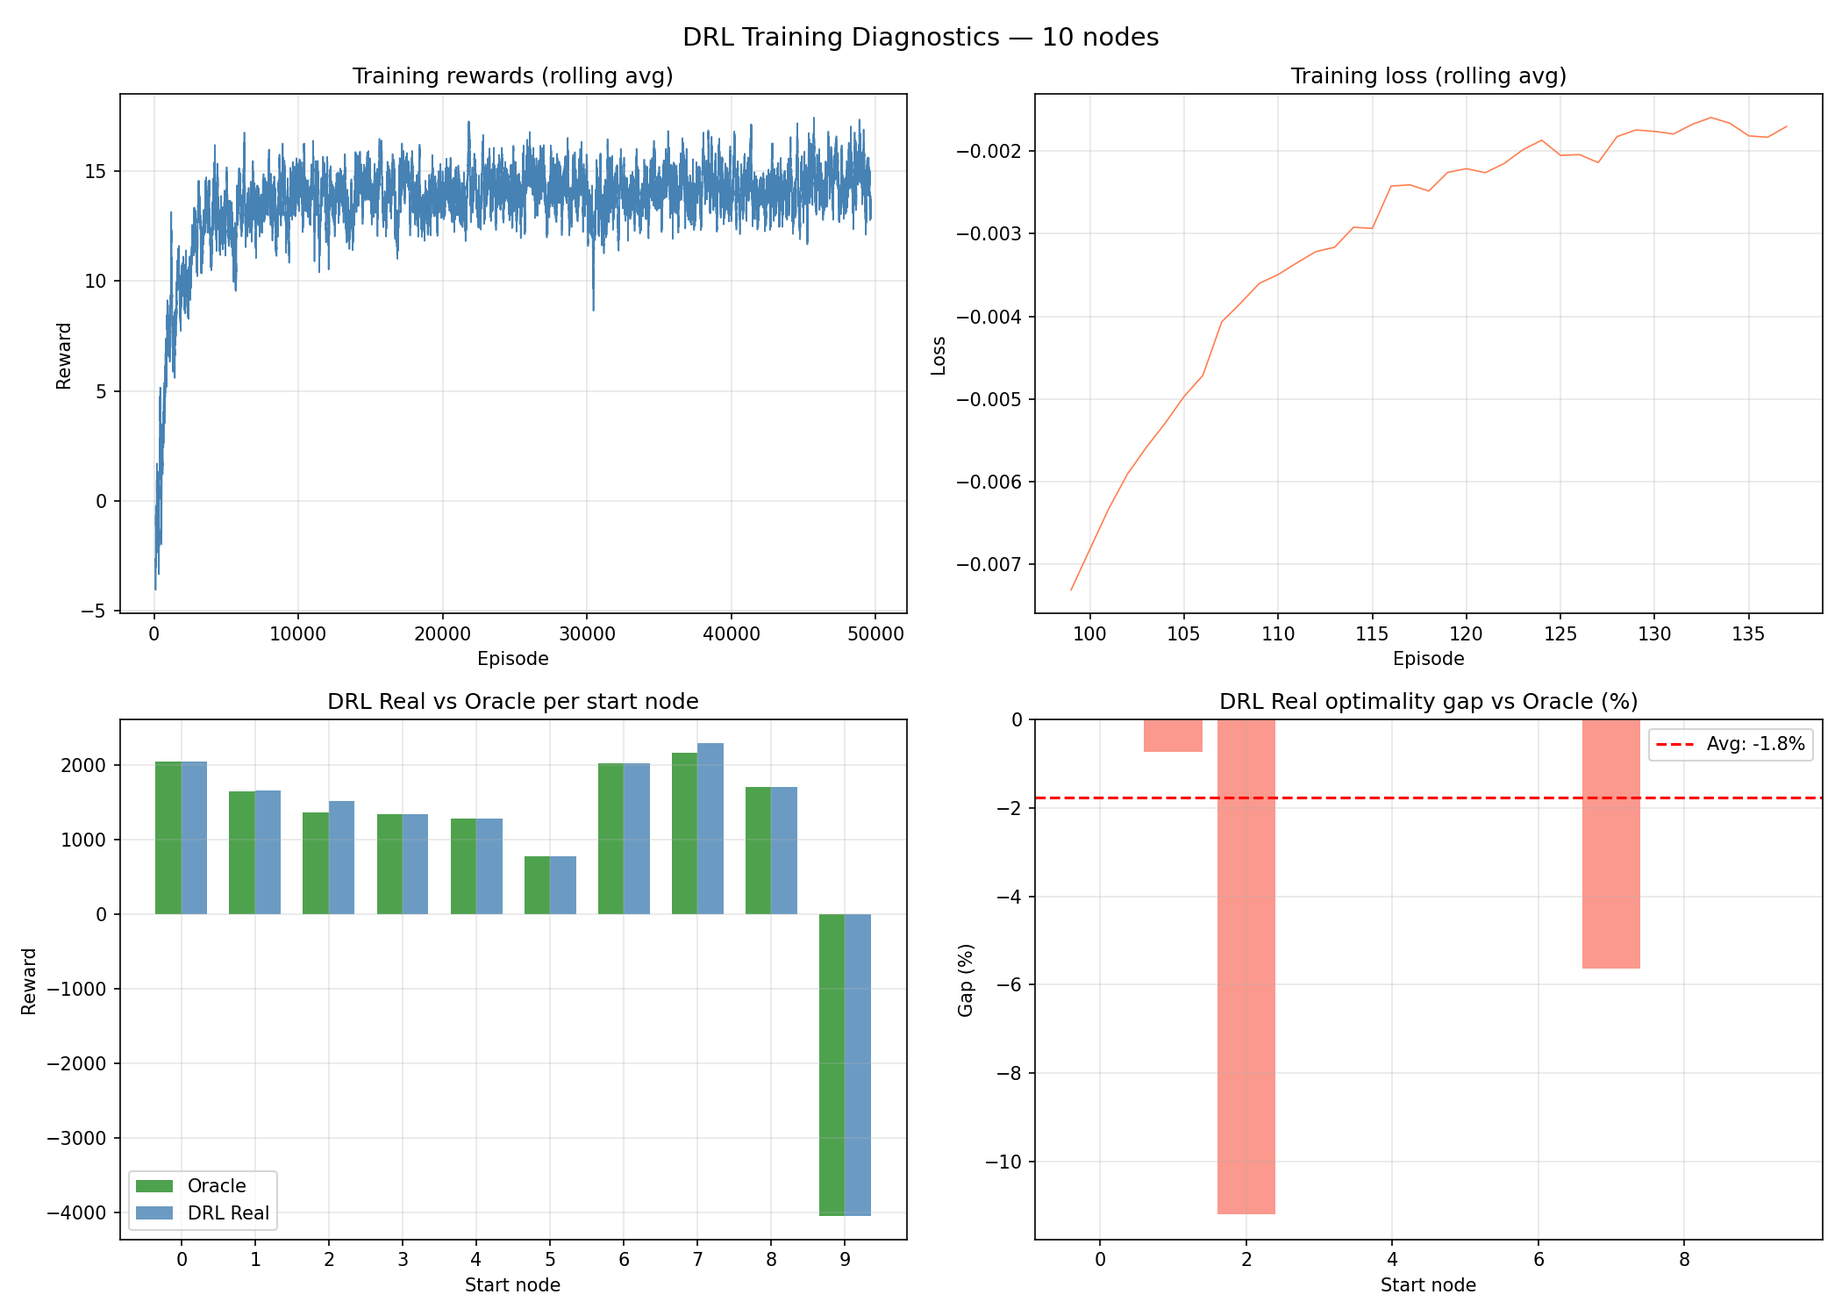
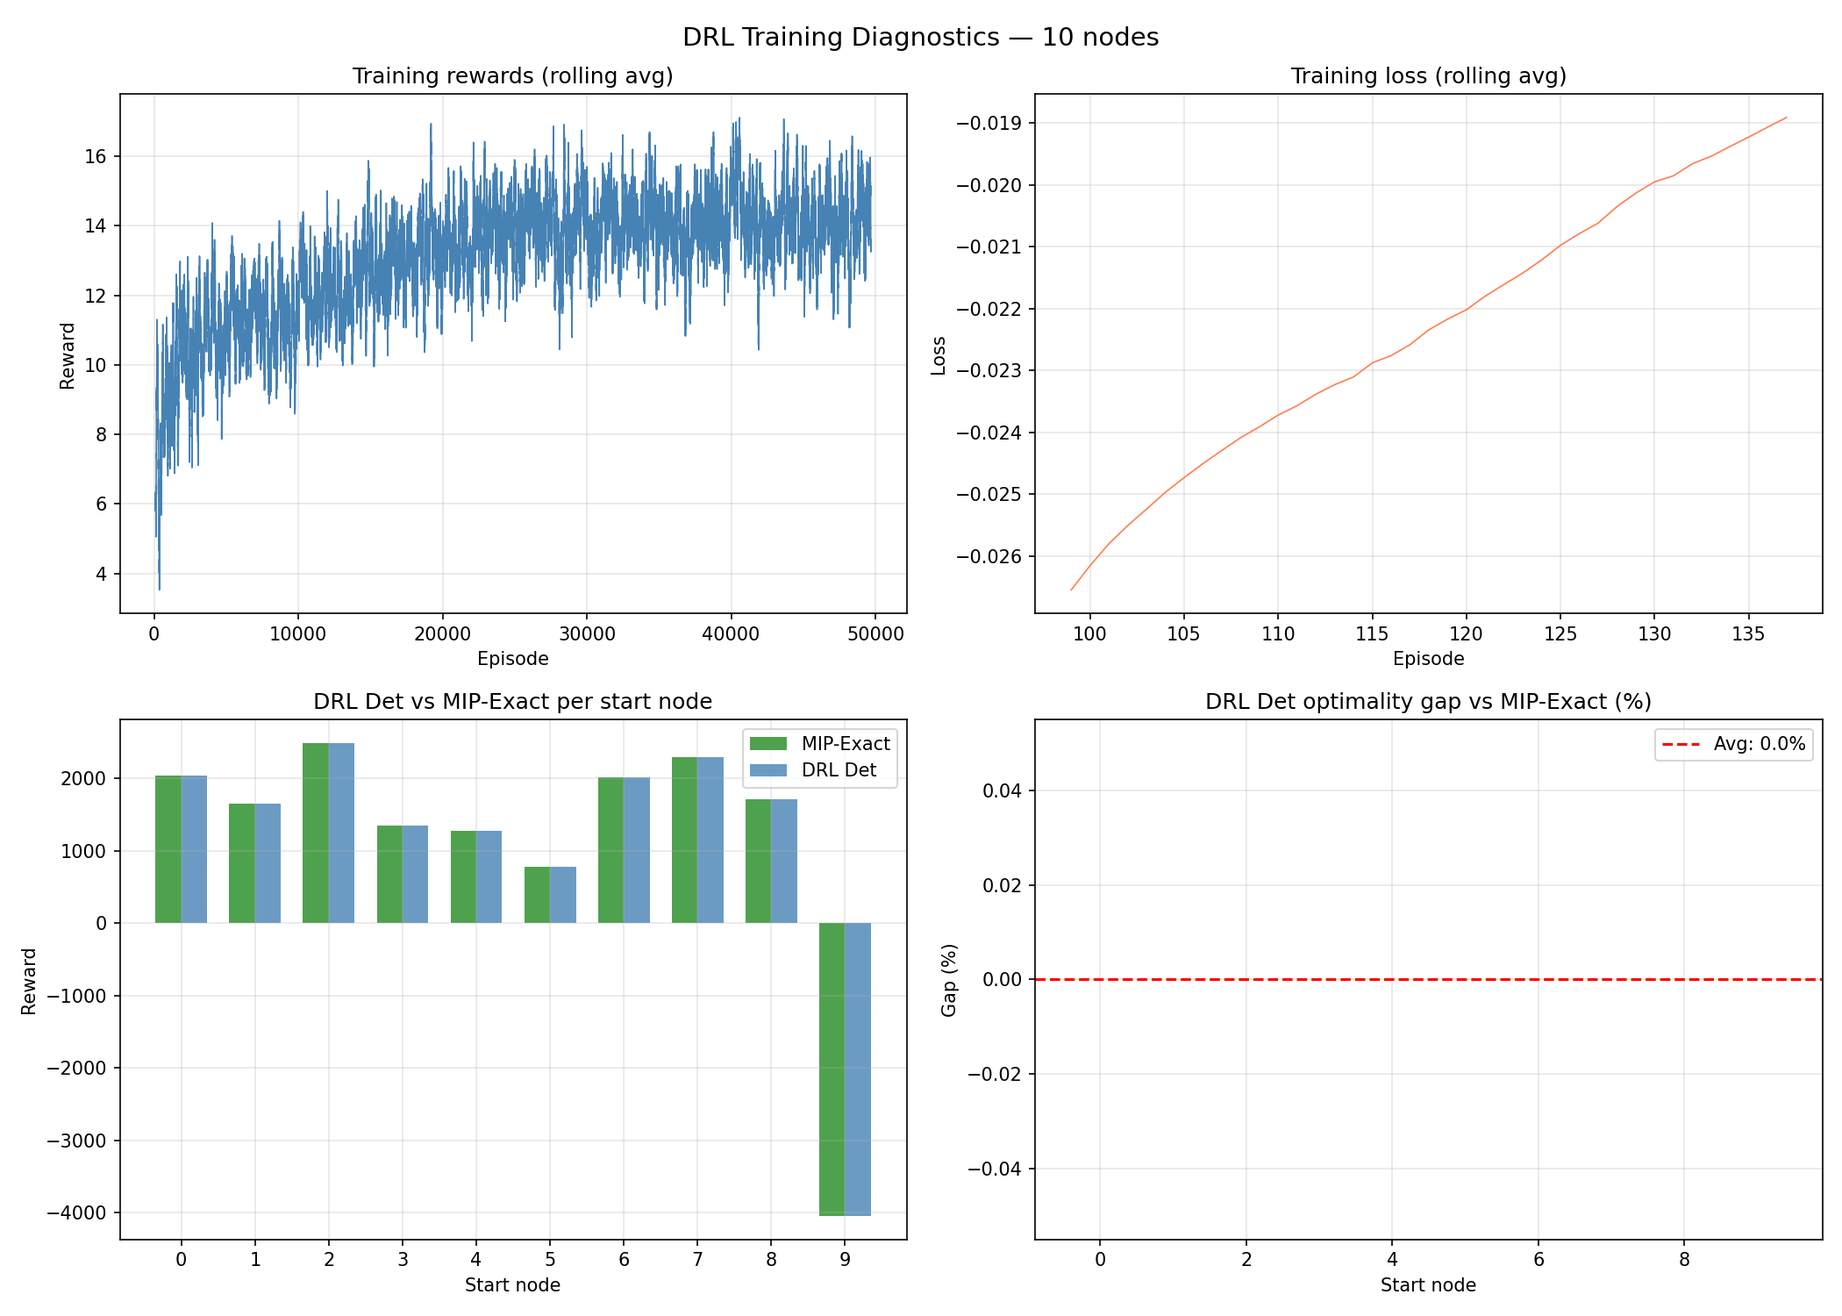
Segunda evaluación tras reemplazo de Solvers

diff --git a/am_agent.py b/am_agent.py
@@ -86,6 +86,7 @@ class AMRoutingAgent(nn.Module):
         trucks_stack:           np.ndarray,        # [num_nodes, 120, 3]
         day_idx:                int,
         avail_prob_arr:         np.ndarray = None, # [num_nodes, num_nodes]
+        reward_global_p95:      float      = 1.0,
     ):
         """
         Construye tensores de entrada y ejecuta encoder + context_net.
@@ -113,13 +114,14 @@ class AMRoutingAgent(nn.Module):
             trucks_stack=trucks_day,
             time_matrix_arr=time_matrix_arr,
             avail_prob_arr=avail_prob_arr,
+            reward_global_p95=reward_global_p95,
         )
         temporal = build_temporal_features(
             time_elapsed, step_count, max_duration, self.num_nodes
         )
         market = build_market_features(current_node, day_idx, ltr_stack)
 
-        feats_t    = torch.from_numpy(node_feats).unsqueeze(0).to(self.device)   # (1,N,6)
+        feats_t    = torch.from_numpy(node_feats).unsqueeze(0).to(self.device)   # (1,N,N_NODE_FEATURES)
         temporal_t = torch.from_numpy(temporal).unsqueeze(0).to(self.device)     # (1,3)
         market_t   = torch.from_numpy(market).unsqueeze(0).to(self.device)       # (1,1)
 
@@ -163,6 +165,7 @@ class AMRoutingAgent(nn.Module):
         trucks_stack:           np.ndarray,        # [num_nodes, 120, 3]
         day_idx:                int,
         avail_prob_arr:         np.ndarray = None, # [num_nodes, num_nodes]
+        reward_global_p95:      float      = 1.0,
     ):
         """
         Rollout unificado con beam search para cualquier beam_width >= 1.
@@ -213,6 +216,7 @@ class AMRoutingAgent(nn.Module):
                     reward_matrix_penalized, time_matrix, distance_arr,
                     max_duration, ltr_stack, trucks_stack, day_idx,
                     avail_prob_arr=avail_prob_arr,
+                    reward_global_p95=reward_global_p95,
                 )
 
                 # Máscara base: self-loop + intermedios visitados
@@ -347,6 +351,7 @@ class AMRoutingAgent(nn.Module):
         trucks_stack:           np.ndarray = None,   # [num_nodes, 120, 3]
         day_idx:                int        = 0,
         avail_prob_arr:         np.ndarray = None,   # [num_nodes, num_nodes]
+        reward_global_p95:      float      = 1.0,
     ):
         """
         Rollout determinista (sin gradientes) con el modelo actual.
@@ -382,6 +387,7 @@ class AMRoutingAgent(nn.Module):
                 distance_arr, max_duration, beam_width,
                 ltr_stack, trucks_stack, day_idx,
                 avail_prob_arr=avail_prob_arr,
+                reward_global_p95=reward_global_p95,
             )
         finally:
             self.train()
@@ -389,18 +395,19 @@ class AMRoutingAgent(nn.Module):
     @torch.no_grad()
     def beam_search_dynamic(
         self,
-        start_node:     int,
-        start_day_idx:  int,
+        start_node:        int,
+        start_day_idx:     int,
         time_matrix,
-        rate_stack:     np.ndarray,
-        loads_stack:    np.ndarray,
-        distance_arr:   np.ndarray,
-        diesel_arr:     np.ndarray,
-        max_duration:   float      = MAX_DURATION,
-        beam_width:     int        = None,
-        ltr_stack:      np.ndarray = None,   # [num_nodes, 120]
-        trucks_stack:   np.ndarray = None,   # [num_nodes, 120, 3]
-        avail_prob_arr: np.ndarray = None,   # [num_nodes, num_nodes]
+        rate_stack:        np.ndarray,
+        loads_stack:       np.ndarray,
+        distance_arr:      np.ndarray,
+        diesel_arr:        np.ndarray,
+        max_duration:      float      = MAX_DURATION,
+        beam_width:        int        = None,
+        ltr_stack:         np.ndarray = None,   # [num_nodes, 120]
+        trucks_stack:      np.ndarray = None,   # [num_nodes, 120, 3]
+        avail_prob_arr:    np.ndarray = None,   # [num_nodes, num_nodes]
+        reward_global_p95: float      = 1.0,
     ):
         """Beam search con días de mercado dinámicos y disponibilidad estocástica.
 
@@ -474,6 +481,7 @@ class AMRoutingAgent(nn.Module):
                     rm_day, time_matrix, distance_arr,
                     max_duration, ltr_stack, trucks_stack, day_idx,
                     avail_prob_arr=avail_prob_arr,
+                    reward_global_p95=reward_global_p95,
                 )
 
                 mask_int = self._build_mask(
@@ -621,6 +629,7 @@ class AMRoutingAgent(nn.Module):
         trucks_stack:           np.ndarray = None,
         day_idx:                int        = 0,
         avail_prob_arr:         np.ndarray = None,
+        reward_global_p95:      float      = 1.0,
     ) -> int:
         """Selección determinista (argmax de logits) para evaluación env-based."""
         embeddings, h_t, _, _, _ = self._encode_step(
@@ -629,6 +638,7 @@ class AMRoutingAgent(nn.Module):
             reward_matrix_penalized, time_matrix, distance_arr,
             max_duration, ltr_stack, trucks_stack, day_idx,
             avail_prob_arr=avail_prob_arr,
+            reward_global_p95=reward_global_p95,
         )
         mask_t    = torch.from_numpy(action_mask).unsqueeze(0).to(self.device)
         bool_mask = (mask_t == 0)
@@ -651,6 +661,7 @@ class AMRoutingAgent(nn.Module):
         trucks_stack:           np.ndarray = None,
         day_idx:                int        = 0,
         avail_prob_arr:         np.ndarray = None,
+        reward_global_p95:      float      = 1.0,
     ):
         """
         Paso estocástico para entrenamiento PPO.
@@ -667,6 +678,7 @@ class AMRoutingAgent(nn.Module):
             reward_matrix_penalized, time_matrix, distance_arr,
             max_duration, ltr_stack, trucks_stack, day_idx,
             avail_prob_arr=avail_prob_arr,
+            reward_global_p95=reward_global_p95,
         )
         mask_t = torch.from_numpy(action_mask).unsqueeze(0).to(self.device)
         action_t, log_prob, entropy = self.decoder.act(h_t, embeddings, mask_t)
@@ -689,6 +701,7 @@ class AMRoutingAgent(nn.Module):
         trucks_stack:           np.ndarray = None,
         day_idx:                int        = 0,
         avail_prob_arr:         np.ndarray = None,
+        reward_global_p95:      float      = 1.0,
     ):
         """
         Paso estocástico para recolección PPO: samplea acción y estima valor.
@@ -709,6 +722,7 @@ class AMRoutingAgent(nn.Module):
             reward_matrix_penalized, time_matrix, distance_arr,
             max_duration, ltr_stack, trucks_stack, day_idx,
             avail_prob_arr=avail_prob_arr,
+            reward_global_p95=reward_global_p95,
         )
         value  = critic(h_t).item()
         mask_t = torch.from_numpy(action_mask).unsqueeze(0).to(self.device)
@@ -731,6 +745,7 @@ class AMRoutingAgent(nn.Module):
         trucks_stack:           np.ndarray = None,
         day_idx:                int        = 0,
         avail_prob_arr:         np.ndarray = None,
+        reward_global_p95:      float      = 1.0,
     ) -> float:
         """Estima V(s) para bootstrap en episodios truncados."""
         _, h_t, _, _, _ = self._encode_step(
@@ -739,5 +754,6 @@ class AMRoutingAgent(nn.Module):
             reward_matrix_penalized, time_matrix, distance_arr,
             max_duration, ltr_stack, trucks_stack, day_idx,
             avail_prob_arr=avail_prob_arr,
+            reward_global_p95=reward_global_p95,
         )
         return critic(h_t).item()

diff --git a/attention_encoder.py b/attention_encoder.py
@@ -25,6 +25,7 @@ Features por nodo j (desde la posición actual del camión):
   [4] visited       — 1.0 si j ya fue visitado en el episodio, 0.0 si no
   [5] trucks_norm   — camiones disponibles en j para el delta correspondiente
   [6] avail_prior   — P(lane actual→j existe) según historial; prior del Bernoulli
+  [7] reward_abs    — reward crudo / REWARD_GLOBAL_P95, clipeado a [0, 1]; 0 si negativo
 
 Compatibilidad:
   · Sin dependencias de agent.py, training.py, routing_env.py ni evaluation.py.
@@ -41,7 +42,7 @@ import torch.nn.functional as F
 from config import LTR_CLIP, TRUCKS_CLIP
 
 # Número de features por nodo — debe coincidir con build_node_features()
-N_NODE_FEATURES = 7
+N_NODE_FEATURES = 8
 
 
 # ─────────────────────────────────────────────────────────────────────────────
@@ -60,6 +61,7 @@ def build_node_features(
     trucks_stack:           np.ndarray = None,  # (N, 3) — camiones por nodo×delta para el día actual
     time_matrix_arr:        np.ndarray = None,  # (N, N) numpy — para cálculo de delta_idx
     avail_prob_arr:         np.ndarray = None,  # (N, N) — prior Bernoulli por arco
+    reward_global_p95:      float      = 1.0,   # normalizador global para feature [7]
 ) -> np.ndarray:
     """
     Construye la matriz de features de nodos para el encoder.
@@ -84,6 +86,9 @@ def build_node_features(
     time_matrix_arr          : time_matrix como numpy array para cálculo de delta_idx.
     avail_prob_arr           : prior Bernoulli por arco — shape (N, N); feature [6] =
                                avail_prob_arr[current_node, j], ya en [0,1].
+
+    reward_global_p95 : normalizador global — P95 de valores positivos del rate_stack de
+                        entrenamiento; si se omite usa 1.0 (feature queda en escala cruda).
 
     Retorna
     -------
@@ -118,6 +123,8 @@ def build_node_features(
 
     # Recortar reward para evitar BIG_M_PENALTY (-1e9) en la diagonal
     feats[:, 0] = np.clip(feats[:, 0], -1e4, 1e4)
+    # Copia antes de normalizar: preserva la escala absoluta para feature [7]
+    raw_rewards = feats[:, 0].copy()
 
     # reward y distancia:
     # normalización relativa intra-fila para preservar ranking local
@@ -139,6 +146,14 @@ def build_node_features(
     # todos los demás arcos también sean largos.
     # Se aplica UNA sola vez para preservar la escala temporal real.
     feats[:, 1] = np.clip(feats[:, 1] / max(max_duration, 1e-6), 0.0, 1.0)
+
+    # Feature [7]: reward absoluto normalizado por el P95 global del entrenamiento.
+    # Complementa la feature [0] (ranking local) con información de escala absoluta.
+    # Valores negativos (arcos con costo neto) quedan en 0.0.
+    _denom = max(reward_global_p95, 1e-6)
+    feat7 = np.clip(raw_rewards / _denom, 0.0, 1.0)
+    feat7[raw_rewards < 0] = 0.0
+    feats[:, 7] = feat7
 
     if np.isnan(feats).any():
         bad = np.argwhere(np.isnan(feats)).tolist()
@@ -245,7 +260,7 @@ class AttentionEncoder(nn.Module):
 
     Parámetros
     ----------
-    d_input  : int — features por nodo (N_NODE_FEATURES = 7).
+    d_input  : int — features por nodo (N_NODE_FEATURES = 8).
     d_h      : int — dimensión del embedding (ej. 128).
     n_heads  : int — cabezas de atención (ej. 8, debe dividir d_h).
     n_layers : int — capas del encoder (ej. 3).

diff --git a/am_training.py b/am_training.py
@@ -188,7 +188,7 @@ class RolloutBuffer:
 def _forward(
     agent:          AMRoutingAgent,
     critic:         CriticHead,
-    node_feats_t:   torch.Tensor,    # (B, N, 6)
+    node_feats_t:   torch.Tensor,    # (B, N, N_NODE_FEATURES)
     temporal_t:     torch.Tensor,    # (B, 3)
     current_nodes:  torch.Tensor,    # (B,) int64
     mask_t:         torch.Tensor,    # (B, N) int8
@@ -261,9 +261,10 @@ def run_am_training(
     num_nodes:      int,
     pretrained_agent:  AMRoutingAgent = None,
     pretrained_critic: CriticHead     = None,
-    ltr_stack:      np.ndarray = None,   # [num_nodes, 120]
-    trucks_stack:   np.ndarray = None,   # [num_nodes, 120, 3]
-    avail_prob_arr: np.ndarray = None,   # [num_nodes, num_nodes]
+    ltr_stack:         np.ndarray = None,   # [num_nodes, 120]
+    trucks_stack:      np.ndarray = None,   # [num_nodes, 120, 3]
+    avail_prob_arr:    np.ndarray = None,   # [num_nodes, num_nodes]
+    reward_global_p95: float      = 1.0,
 ) -> tuple:
     """
     Entrena AMRoutingAgent + CriticHead con PPO.
@@ -404,6 +405,7 @@ def run_am_training(
                         ltr_stack=ltr_stack, trucks_stack=trucks_stack,
                         day_idx=current_day,
                         avail_prob_arr=avail_prob_arr,
+                        reward_global_p95=reward_global_p95,
                     )
 
                     next_obs, reward, terminated, truncated, info = env.step(action)
@@ -427,6 +429,7 @@ def run_am_training(
                             ltr_stack=ltr_stack, trucks_stack=trucks_stack,
                             day_idx=current_day_trunc,
                             avail_prob_arr=avail_prob_arr,
+                            reward_global_p95=reward_global_p95,
                         )
 
                     buffer.add(
@@ -477,7 +480,7 @@ def run_am_training(
                 # Reconstruir tensores del batch
                 nf_b   = torch.from_numpy(
                     np.stack([buffer.node_feats[i] for i in idx_batch])
-                ).to(DEVICE)                                           # (B, N, 6)
+                ).to(DEVICE)                                           # (B, N, N_NODE_FEATURES)
                 tf_b   = torch.from_numpy(
                     np.stack([buffer.temporal_feats[i] for i in idx_batch])
                 ).to(DEVICE)                                           # (B, 3)

diff --git a/main.py b/main.py
@@ -65,6 +65,7 @@ def _run_am(
     distance_arr, diesel_arr, cwd,
     pretrained_agent=None, pretrained_critic=None,
     ltr_stack=None, trucks_stack=None, avail_prob_arr=None,
+    reward_global_p95=1.0,
 ):
     """Pipeline AM: entrenamiento PPO → checkpoint."""
     from am_training import run_am_training
@@ -84,6 +85,7 @@ def _run_am(
         pretrained_critic=pretrained_critic,
         ltr_stack=ltr_stack, trucks_stack=trucks_stack,
         avail_prob_arr=avail_prob_arr,
+        reward_global_p95=reward_global_p95,
     )
     train_time = time.time() - t0
     print(f"Training time: {train_time:.1f} s")
@@ -195,7 +197,7 @@ def _evaluate_and_report(
 def main():
     # ── Cambia estos valores según lo que quieras hacer ───────────────────────
     NUM_NODES  = 10     # opciones: 10 · 20 · 35 · 50 · 75 · 97
-    EVAL_ONLY  = True  # True: carga checkpoint y salta entrenamiento
+    EVAL_ONLY  = False  # True: carga checkpoint y salta entrenamiento
     # ──────────────────────────────────────────────────────────────────────────
 
     cwd          = os.path.dirname(os.path.abspath(__file__))
@@ -215,7 +217,7 @@ def main():
     os.makedirs(checkpoint_dir, exist_ok=True)
 
     time_matrix, rate_stack, loads_stack, distance_arr, diesel_arr, \
-        ltr_stack, trucks_stack, avail_prob_arr = load_matrices(NUM_NODES)
+        ltr_stack, trucks_stack, avail_prob_arr, reward_global_p95 = load_matrices(NUM_NODES)
 
     # ── Train / eval split (temporal — el modelo no ve los días de eval) ──────
     rate_train  = rate_stack[:TRAIN_DAYS]
@@ -234,6 +236,7 @@ def main():
             agent_pretrained, critic_pretrained,
             ltr_stack=ltr_stack, trucks_stack=trucks_stack,
             avail_prob_arr=avail_prob_arr,
+            reward_global_p95=reward_global_p95,
         )
         ppo_plot_path = os.path.join(output_dir, "PPO_Diagnostics_AM.png")
         plot_ppo_diagnostics(training_log, NUM_NODES, ppo_plot_path)

diff --git a/config.py b/config.py
@@ -38,11 +38,11 @@ AM_D_FF     = 512  # Dimensión de la capa feed-forward
 PPO_N_EPISODES_PER_UPDATE = 360    # Episodios recolectados antes de cada update PPO
 PPO_N_EPOCHS              = 4      # Épocas de entrenamiento PPO por rollout
 PPO_BATCH_SIZE            = 64     # Tamaño de batch para entrenamiento PPO
-PPO_LR                    = 1e-4   # Learning rate para el actor
+PPO_LR                    = 3e-5   # Learning rate para el actor
 PPO_GAMMA                 = 0.99   # Factor de descuento para las recompensas futuras
 PPO_GAE_LAMBDA            = 0.95   # Factor de GAE
 PPO_CLIP_EPS              = 0.15   # Clip PPO para limitar cambios de política
-PPO_ENTROPY_COEF          = 0.05   # Coeficiente de entropía para PPO
+PPO_ENTROPY_COEF          = 0.1   # Coeficiente de entropía para PPO
 PPO_GRAD_CLIP             = 0.5    # Clipping de gradiente para PPO
 
 # ── Train / eval split ───────────────────────────────────────

diff --git a/problem_data.py b/problem_data.py
@@ -161,8 +161,15 @@ def load_matrices(num_nodes: int) -> tuple:
     eval_days  = num_days - train_days
     print(f"Multi-day data  : {num_days} días totales | train={train_days} | eval={eval_days}")
 
+    # P95 de los valores positivos del rate_stack de entrenamiento.
+    # Usado como normalizador global de rewards en la feature [7] del encoder.
+    rate_train_slice = rate_stack[:train_days]
+    _pos_vals = rate_train_slice[rate_train_slice > 0].ravel()
+    reward_global_p95 = float(np.percentile(_pos_vals, 95)) if len(_pos_vals) > 0 else 1.0
+    print(f"REWARD_GLOBAL_P95: {reward_global_p95:.4f}")
+
     return time_matrix, rate_stack, loads_stack, distance_arr, diesel_arr, \
-           ltr_stack, trucks_stack, avail_prob_arr
+           ltr_stack, trucks_stack, avail_prob_arr, reward_global_p95
 
 
 

diff --git a/inference.py b/inference.py
@@ -47,7 +47,7 @@ def load_agent(checkpoint_path: str) -> AMRoutingAgent:
 def load_latest_day():
     """Carga las matrices y toma el último día disponible como snapshot actual."""
     time_matrix, rate_stack, loads_stack, distance_arr, diesel_arr, \
-        _, _, _ = load_matrices(NUM_NODES)
+        _, _, _, _ = load_matrices(NUM_NODES)
 
     # Último día del stack histórico = día más reciente disponible
     _, reward_matrix_penalized = build_day_matrices(

diff --git a/test_mip_exact_bound.py b/test_mip_exact_bound.py
@@ -260,7 +260,7 @@ def main():
 
     print("\nCargando matrices...")
     (time_matrix, rate_stack, loads_stack, distance_arr, diesel_arr,
-     ltr_stack, trucks_stack, avail_prob_arr) = load_matrices(NUM_NODES)
+     ltr_stack, trucks_stack, avail_prob_arr, _) = load_matrices(NUM_NODES)
     time_matrix_np = np.array(time_matrix, dtype=float)
     print(f"Nodos: {NUM_NODES} | días disponibles: {rate_stack.shape[0]} "
           f"| MAX_DURATION: {MAX_DURATION}h")

diff --git a/test_am_routes.py b/test_am_routes.py
@@ -31,7 +31,7 @@ def main():
 
     # ── Cargar datos reales ───────────────────────────────────
     print("\nCargando matrices...")
-    time_matrix, rate_stack, loads_stack, distance_arr, diesel_arr, _ = \
+    time_matrix, rate_stack, loads_stack, distance_arr, diesel_arr, *_ = \
         load_matrices(NUM_NODES)
 
     _, reward_matrix_penalized = build_day_matrices(

diff --git a/transfer_learning.py b/transfer_learning.py
@@ -141,7 +141,7 @@ def transfer_checkpoint(
 
     checkpoint = torch.load(source_checkpoint, map_location=DEVICE)
 
-    # Instanciar modelos destino con la arquitectura actual (N_NODE_FEATURES=6, n_market=1)
+    # Instanciar modelos destino con la arquitectura actual (N_NODE_FEATURES=8, n_market=1)
     agent  = AMRoutingAgent(
         num_nodes=target_num_nodes,
         d_h=d_h, n_heads=n_heads, n_layers=n_layers, d_ff=d_ff,
